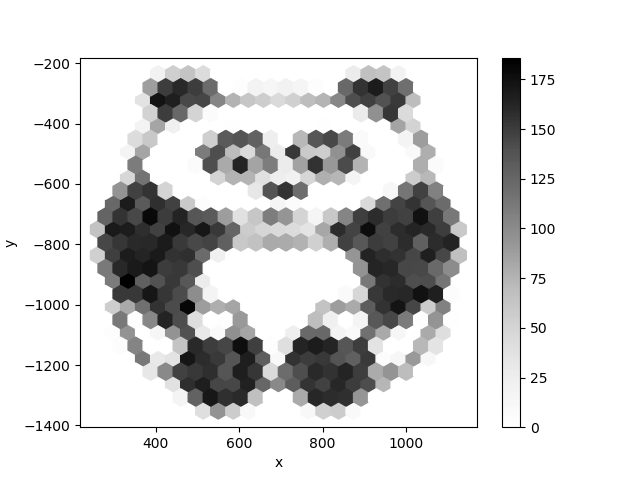
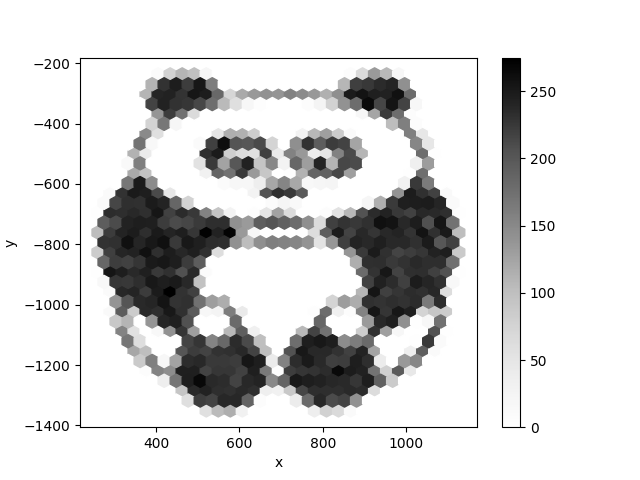
add hexpanda example

diff --git a/hexpanda/hexpanda.py b/hexpanda/hexpanda.py
@@ -2,40 +2,25 @@
 import pandas as pd
 import pylab as plt
 import numpy as np
-import random
-from PIL import Image as im
+from PIL import Image
 
-panda = im.open('pepper.jpg')
+GRIDSIZE = 30
+
+panda = Image.open('panda.png')
 panda = panda.convert('L')
+panda = np.array(panda)
 
-width, height = panda.size
-gmap = list(panda.getdata())
-gmap = np.array(gmap)
-gmap = gmap.reshape((height, width))
+panda = 255 - panda # invert
+df = pd.DataFrame(panda)
 
-g = gmap - 255
-g = -1 * g
-p = pd.DataFrame(g)
+df = df.unstack()  # single column with x/y as index
+df = df[df > 0]    # only non-white pixels
 
-pp = p.unstack()
-pp = pp[pp > 0]
+df = df.reset_index()
+df.columns = ['x', 'y', 'col']  # for convenience
+df['y'] *= -1  # otherwise matplotlib draws the panda upside-down
 
-pp.to_csv('panda.csv')
-pr = pd.read_csv('panda.csv', names=['x', 'y', 'col'])
-pr['y'] *= -1
+df = df.sample(df.shape[0] // 4)
 
-
-def sample(val):
-    ri = random.randint(1, 1024)
-    return ri <= val
-
-
-pandasample = pr['col'].apply(sample)
-pr = pr[pandasample]
-
-pr.plot.hexbin(x='x', y='y', gridsize=24, cmap=plt.get_cmap('Reds'))
-plt.savefig('red.png')
-
-#for i in range(1, 50):
-#    pr.plot.hexbin(x='x', y='y', gridsize=i, cmap=plt.get_cmap('Greys'))
-#    plt.savefig('hexpandas/hexpanda_{}.png'.format(i))
+df.plot.hexbin(x='x', y='y', gridsize=GRIDSIZE, cmap=plt.get_cmap('Greys'))
+plt.savefig('hexpanda.png')

diff --git a/vortex/vortex.py b/vortex/vortex.py
@@ -1,4 +1,3 @@
-# requires pip install array2gif
 
 from scipy.ndimage import imread, rotate
 from scipy.misc import imsave

diff --git a/hexpanda/README.md b/hexpanda/README.md
@@ -1,0 +1,14 @@
+
+# Hexpanda
+
+![](../images/hexpanda.png)
+
+The script
+
+1. puts the pixels of the original image into a pandas DataFrame
+2. draws a random sample
+3. creates a hexbin plot
+
+There is a bit of data wrangling done, mostly messing with a pandas MultiIndex.
+
+:::include hexpanda.py

diff --git a/README.md b/README.md
@@ -60,6 +60,7 @@ Next, try the examples and challenges.
 | Example | Topic |
 |-----------|--------|
 | [Warhol](warhol/) | Color channels |
+| [Hexpanda](hexpanda/) | Hexbin plot |
 | [Vortex](vortex/) | Animation |
 
 
